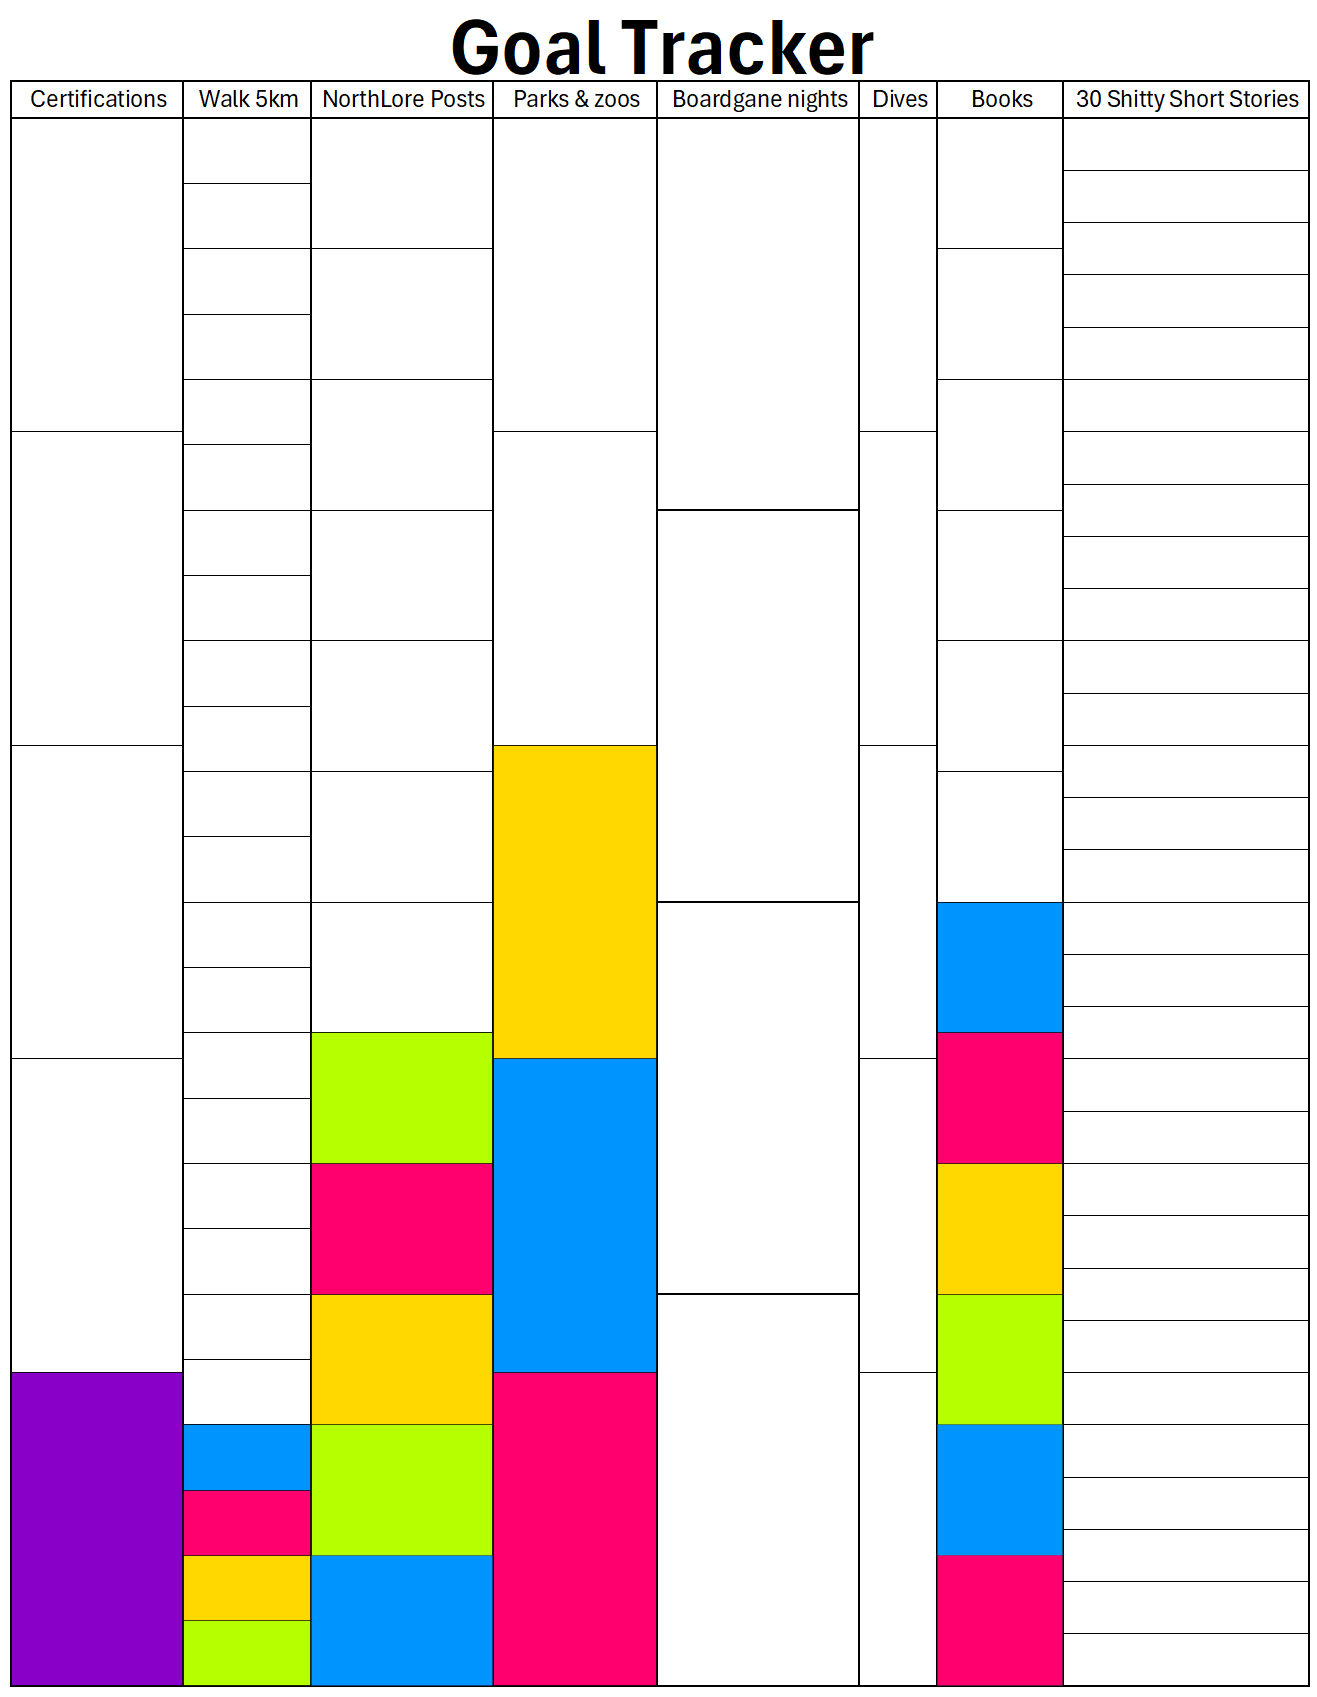
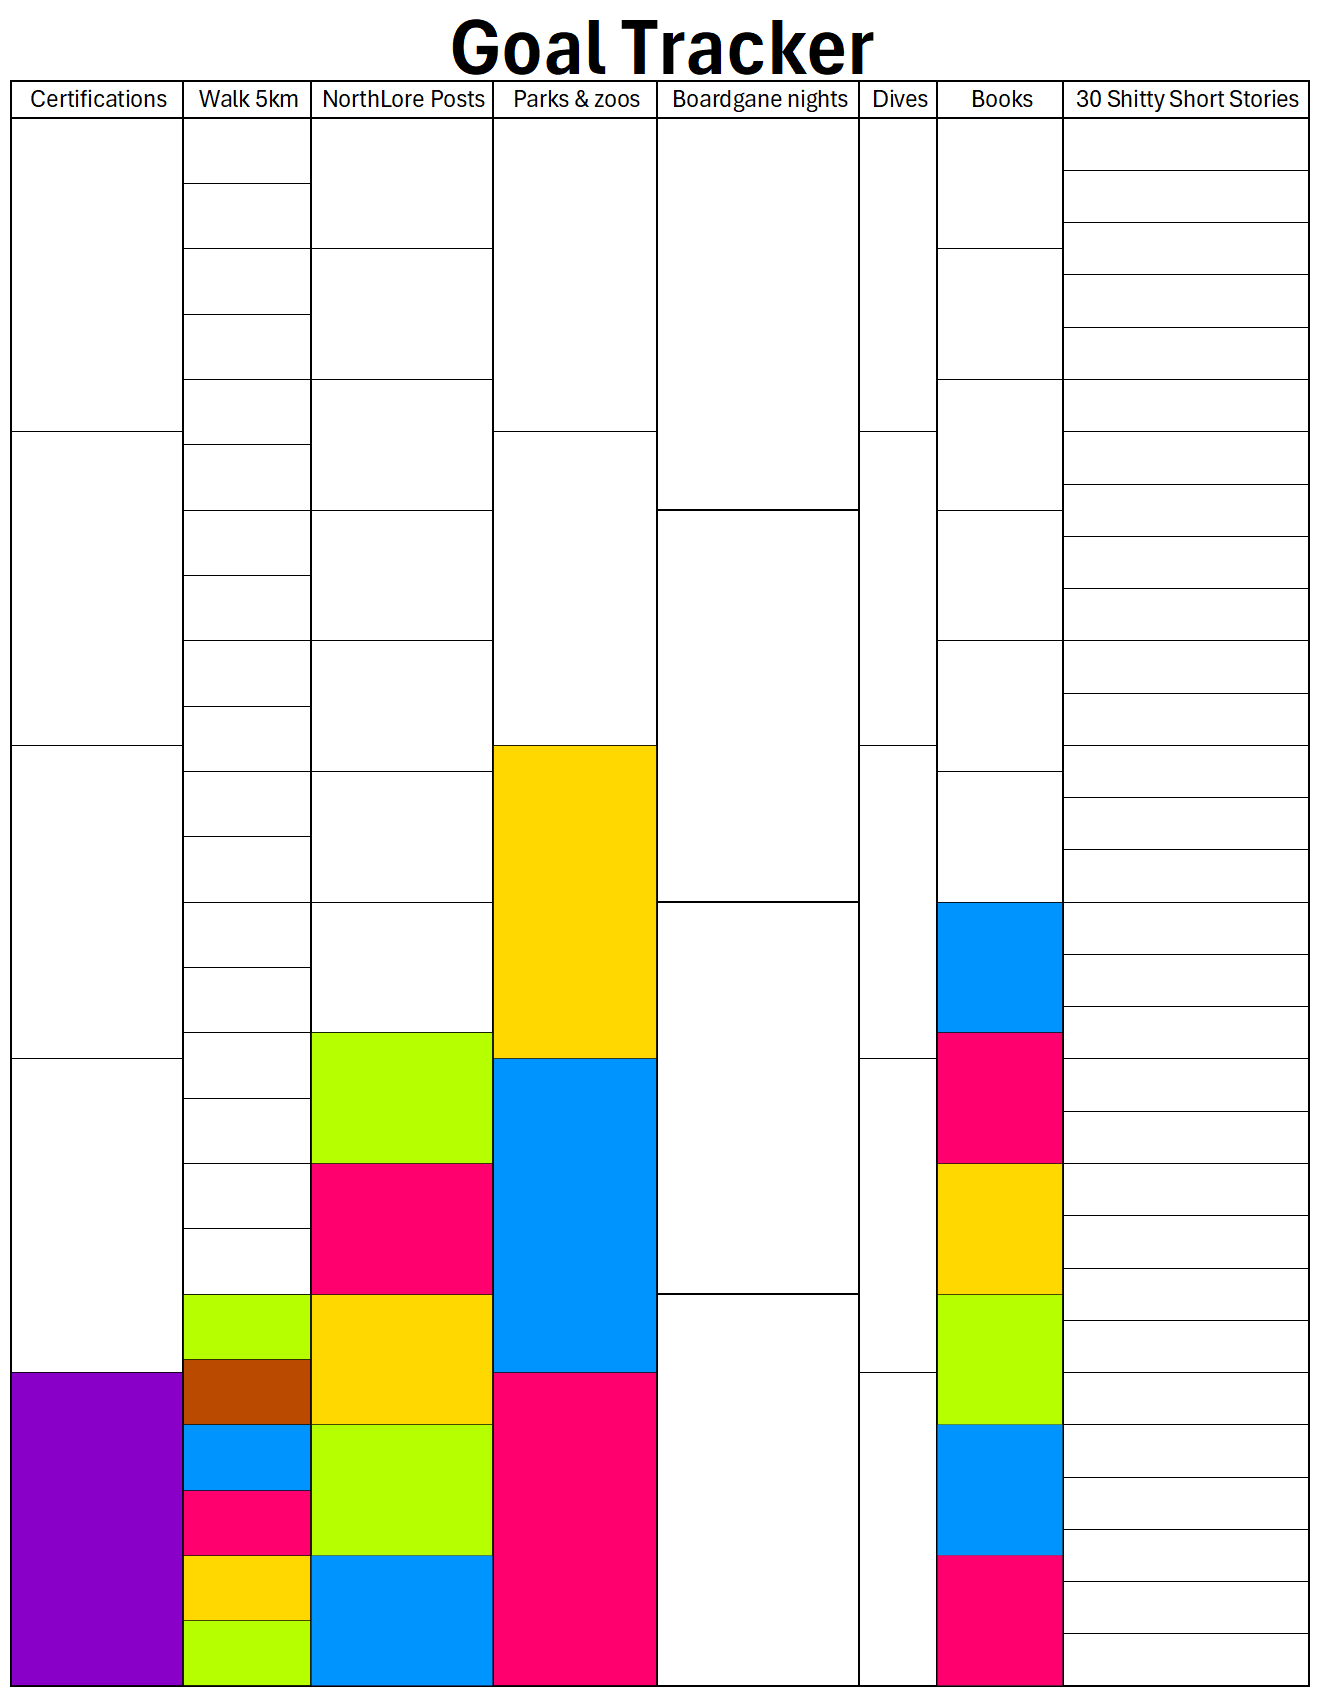
Update Bingo

Changed region(s): [[0.1245, 0.7496, 0.2491, 0.8433]]

diff --git a/src/posts/the_forge/2026Bingo.md b/src/posts/the_forge/2026Bingo.md
@@ -66,6 +66,8 @@ Good luck, and have fun!
 ## TLDR; Milestones reached
 | Date  | Goal              | Note                           |
 | ----- | ----              | ----                           |
+| 24/07 | 5K walks          | Spejdernes Lejr 2026, Friday   |
+| 23/07 | 5K walks          | Spejdernes Lejr 2026, Thuesday |
 | 16/06 | Certifications    | Motorcycle License             |
 | 07/06 | Parks & Zoos      | Ree Park Safari                |
 | 05/06 | Read Books        | Intet                          |
